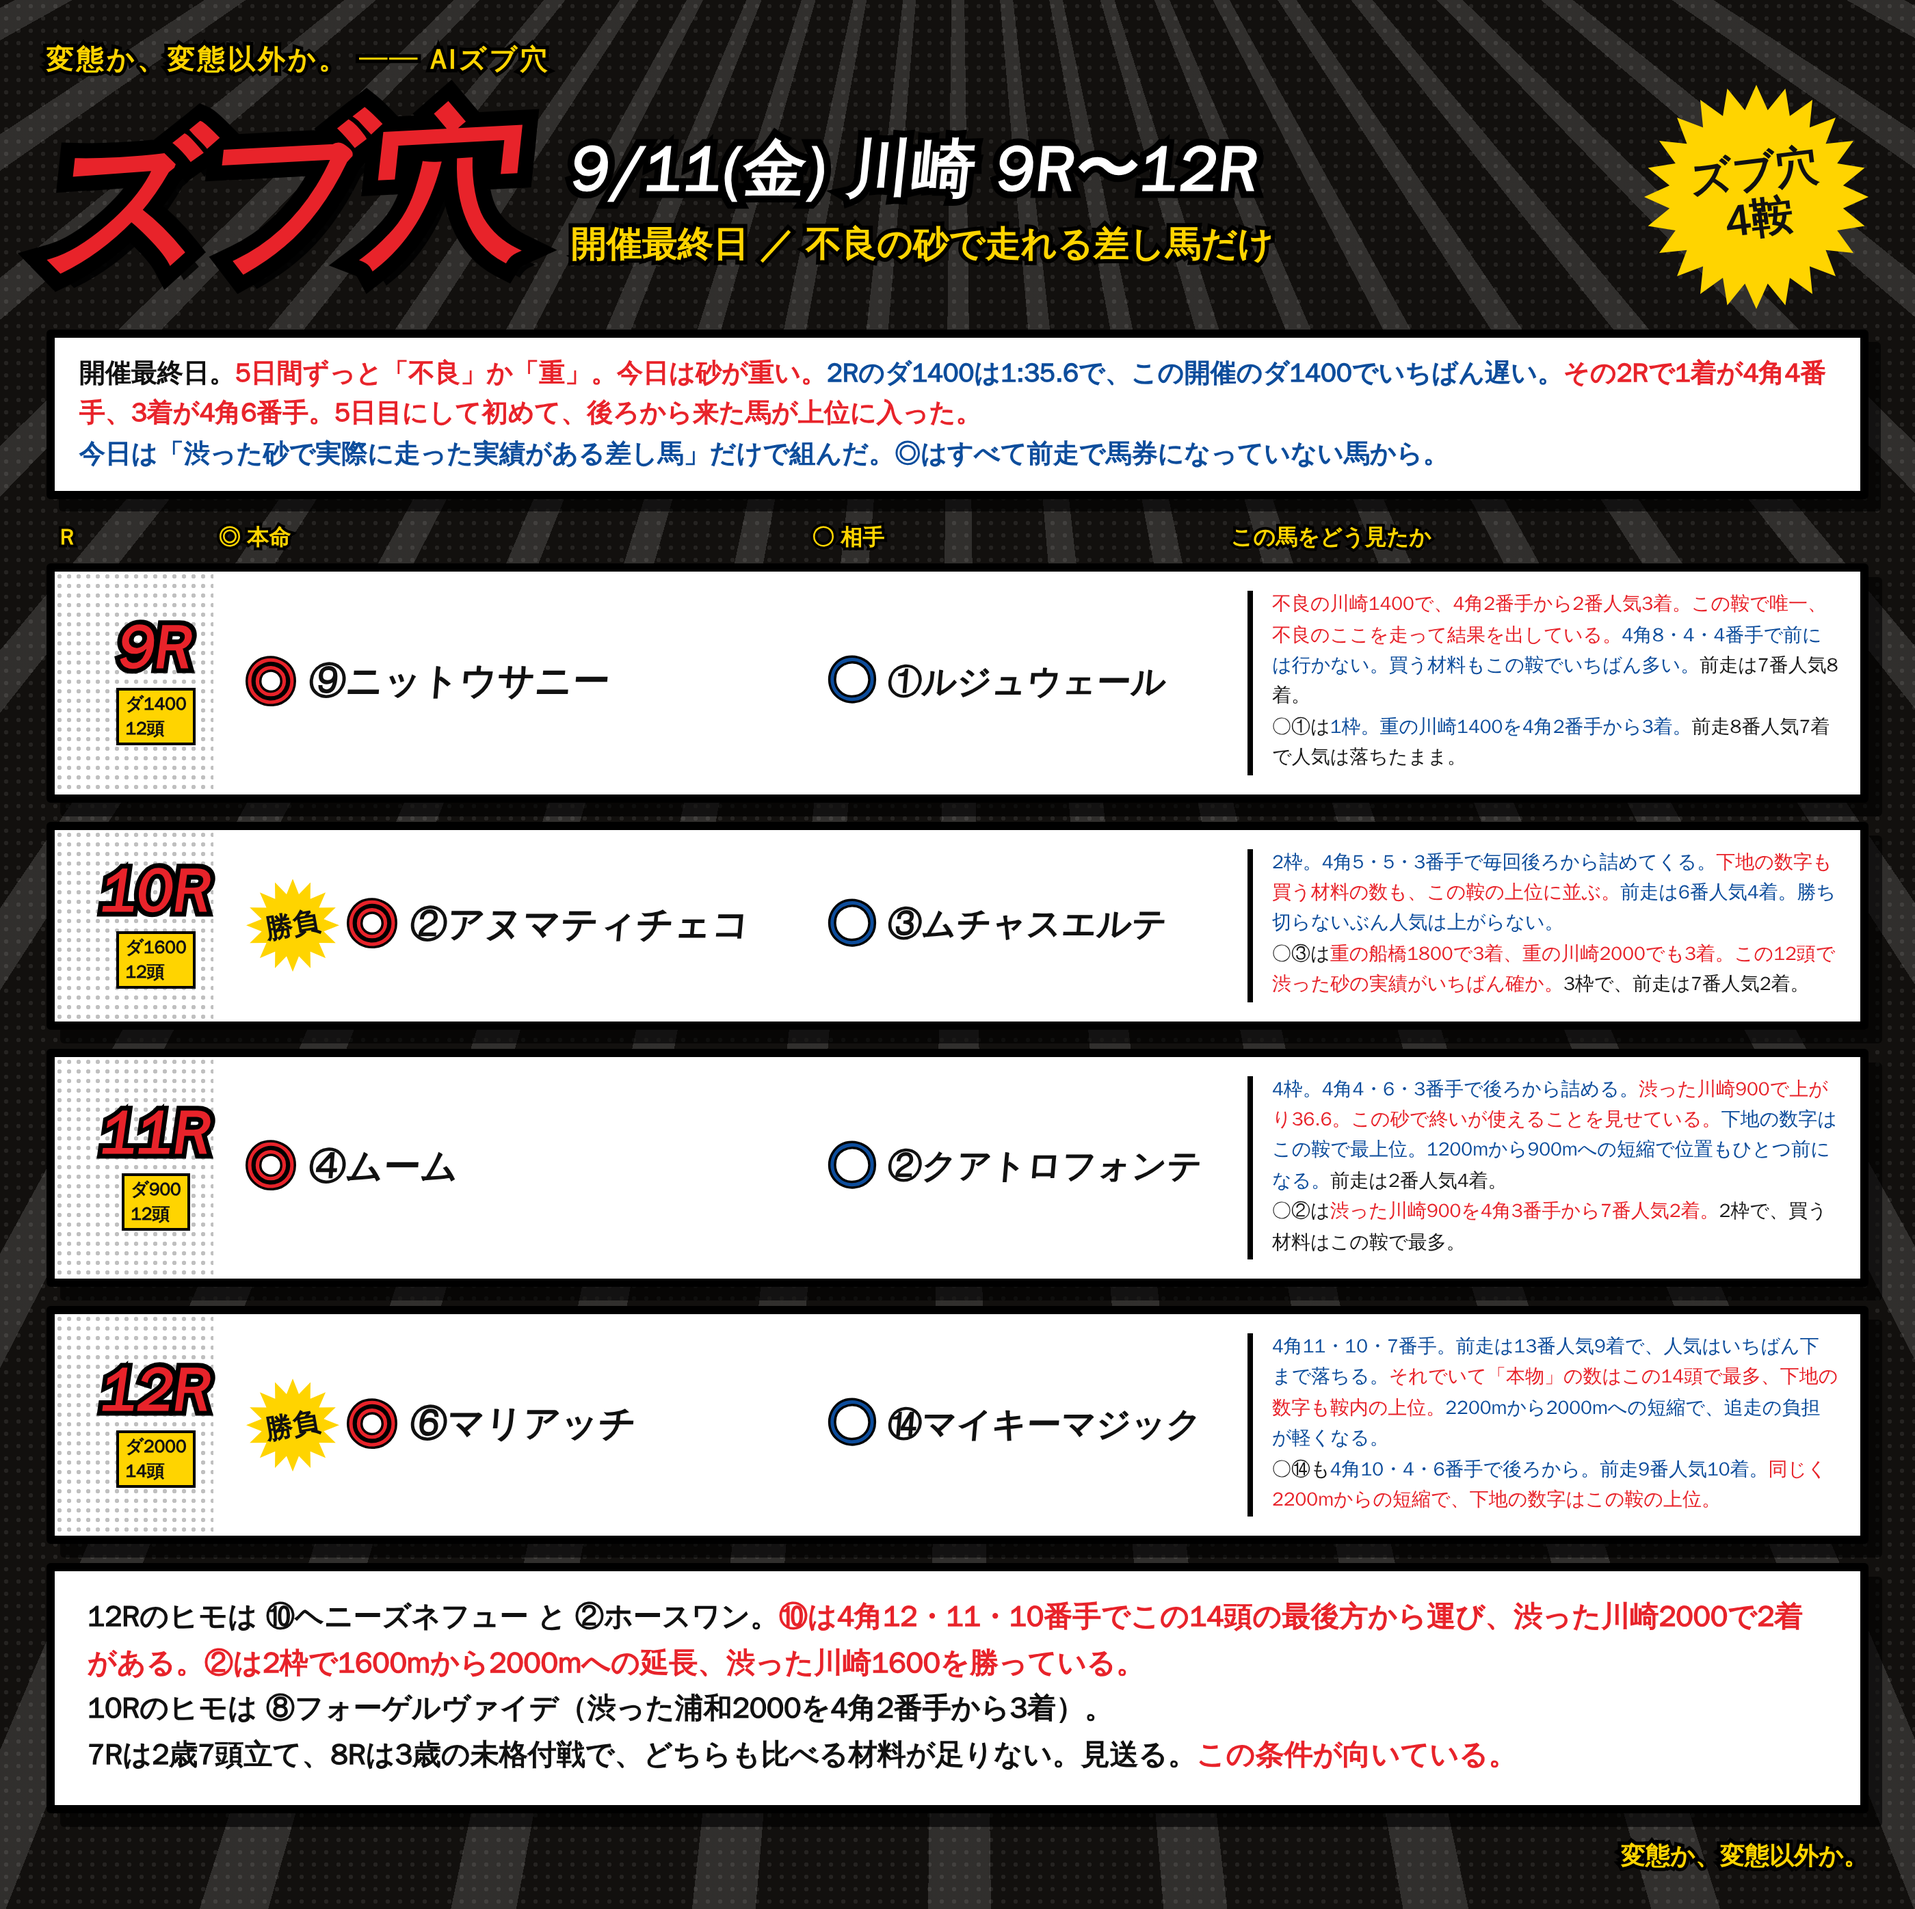
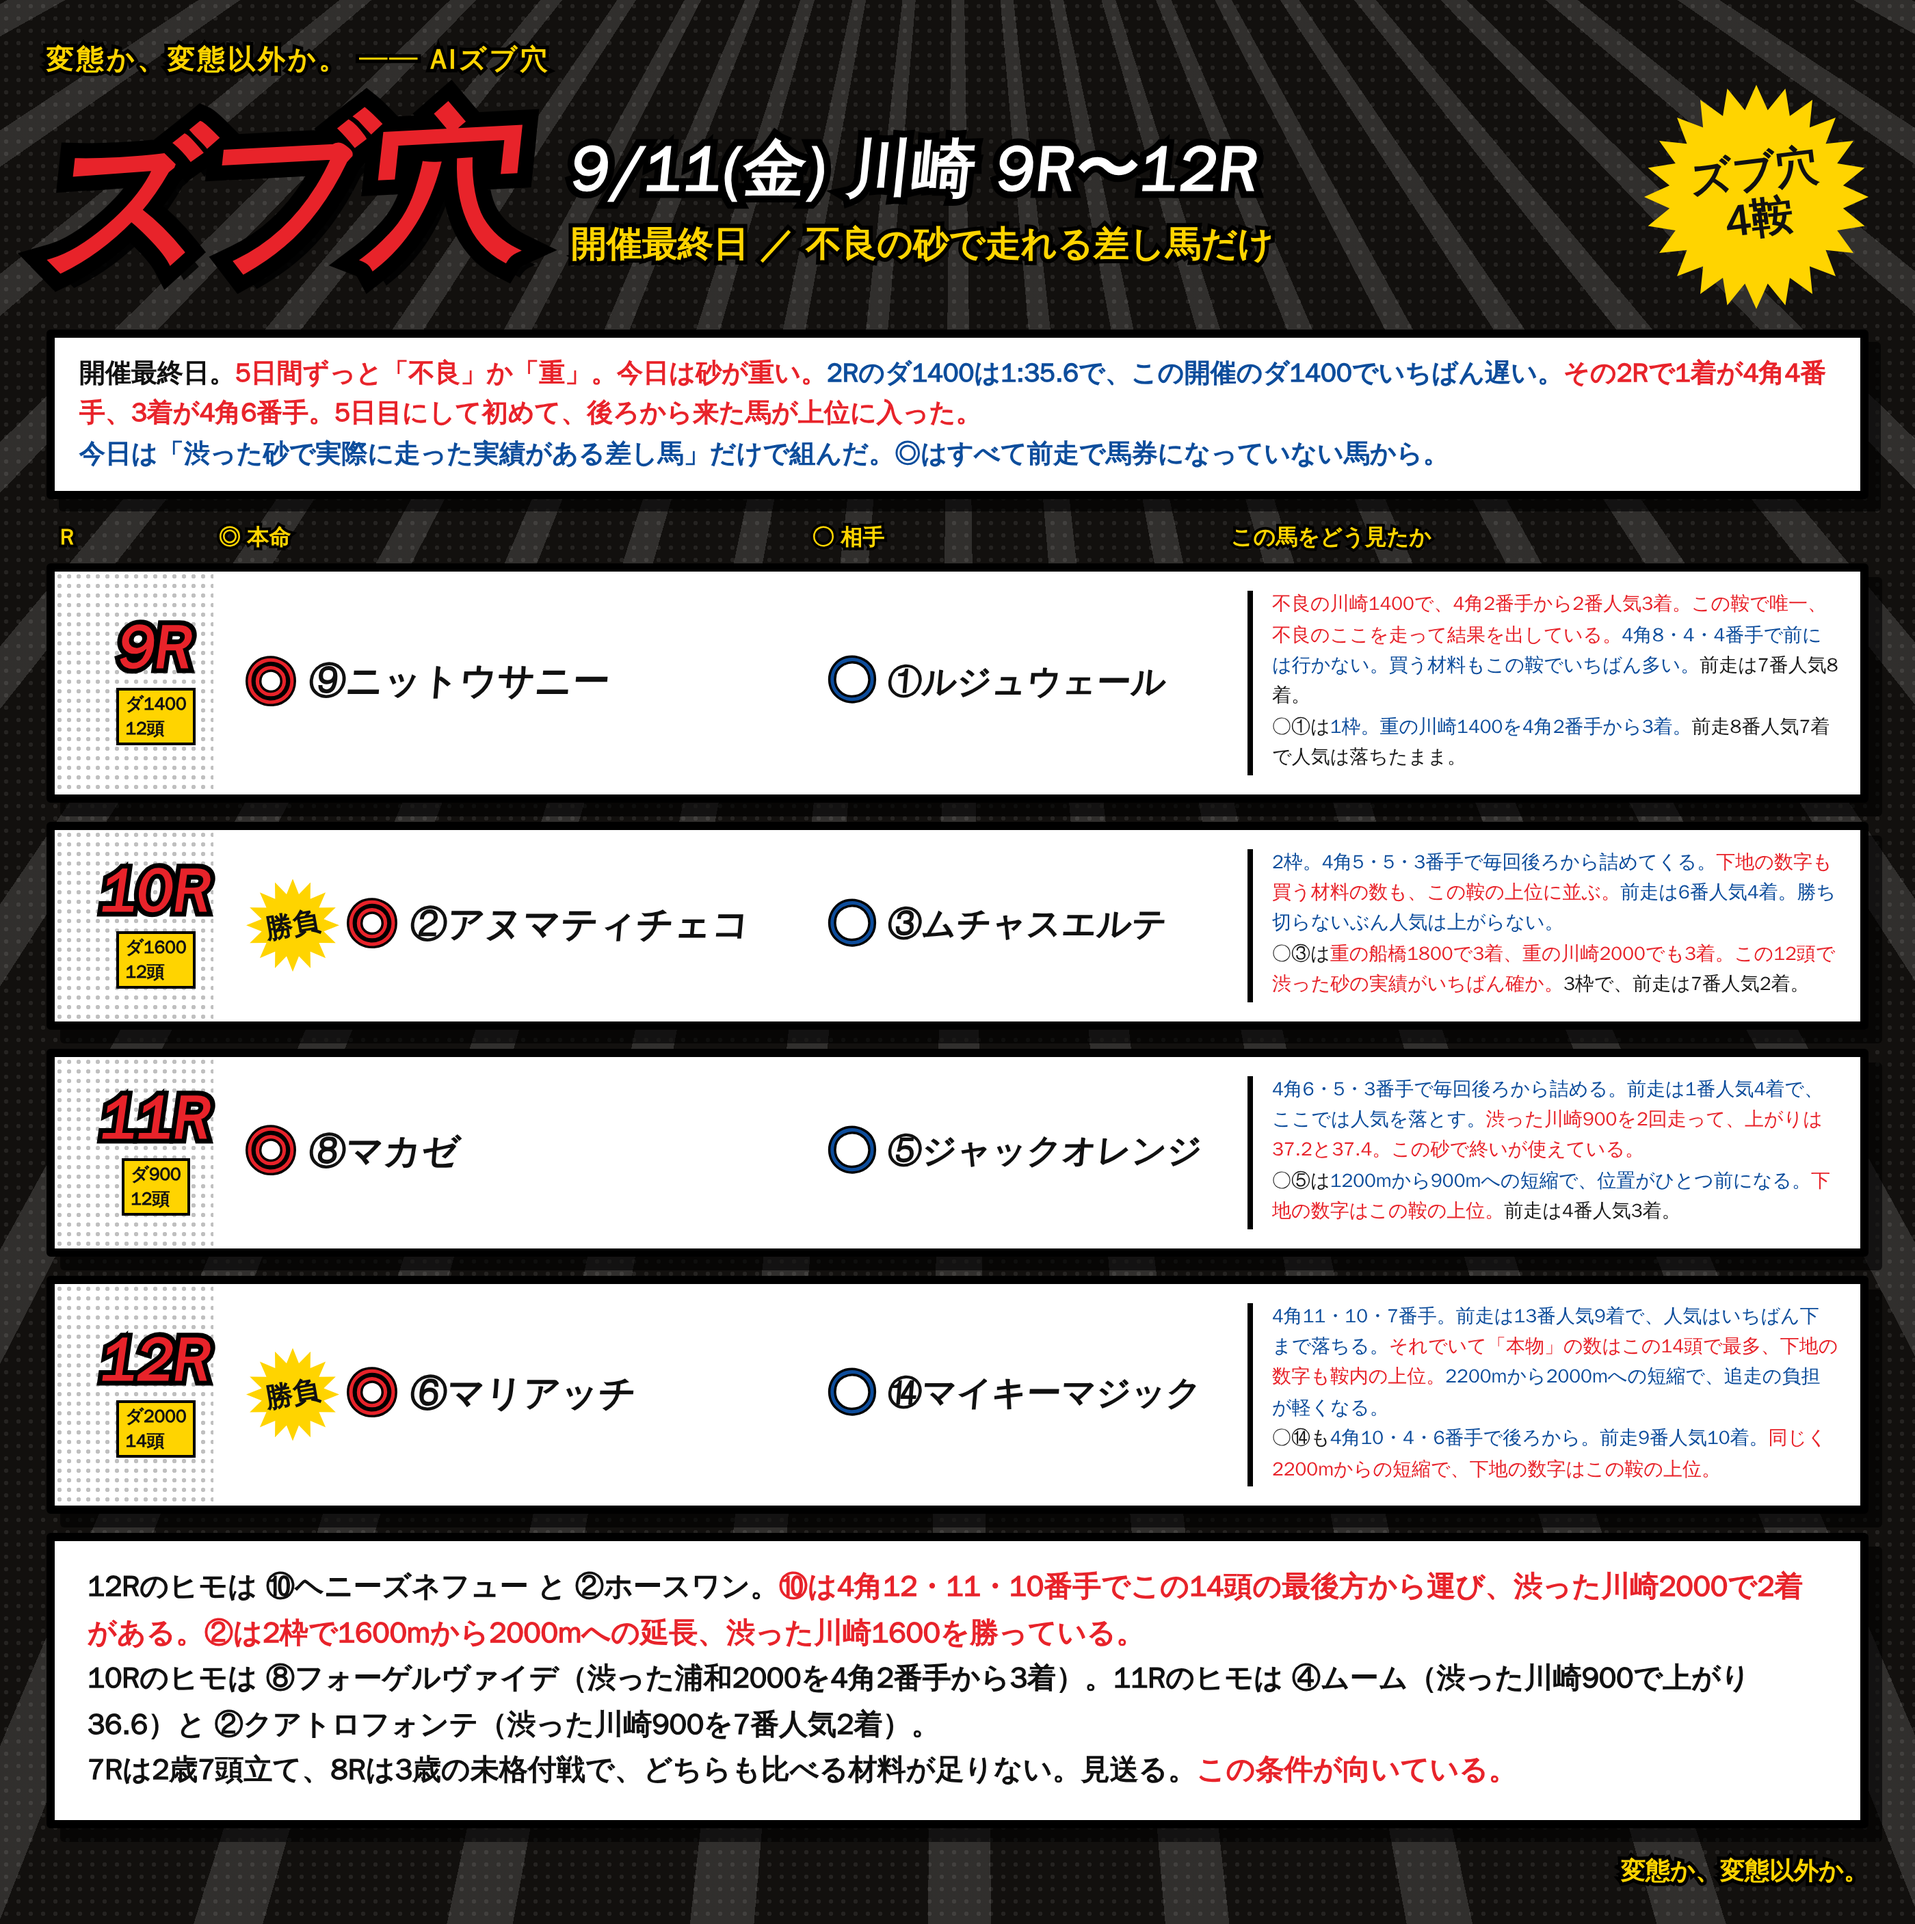
9/11 川崎: 11Rの印を差し替え
Claude-Session: https://claude.ai/code/session_01RoHscZkr96FNaxQWvUqgEw

diff --git a/notes/live/2026-09-11/kw_9_12.html b/notes/live/2026-09-11/kw_9_12.html
@@ -83,8 +83,8 @@
 <div class="cols"><div class="cR">R</div><div class="cH">◎ 本命</div><div class="cA">○ 相手</div><div class="cM">この馬をどう見たか</div></div>
 <div class="row"><div class="corner"></div><div class="rN"><div class="n">9R</div><div class="d">ダ1400<br>12頭</div></div><div class="hm"><span class="mk">◎</span><span class="nm">⑨ニットウサニー</span></div><div class="at"><span class="mk2">○</span><span class="nm2">①ルジュウェール</span></div><div class="memo"><b class="r">不良の川崎1400で、4角2番手から2番人気3着。この鞍で唯一、不良のここを走って結果を出している。</b><b>4角8・4・4番手で前には行かない。買う材料もこの鞍でいちばん多い。</b>前走は7番人気8着。<br>○①は<b>1枠。重の川崎1400を4角2番手から3着。</b>前走8番人気7着で人気は落ちたまま。</div></div>
 <div class="row"><div class="corner"></div><div class="rN"><div class="n">10R</div><div class="d">ダ1600<br>12頭</div></div><div class="hm"><div class="sb"><span>勝負</span></div><span class="mk">◎</span><span class="nm">②アヌマティチェコ</span></div><div class="at"><span class="mk2">○</span><span class="nm2">③ムチャスエルテ</span></div><div class="memo"><b>2枠。4角5・5・3番手で毎回後ろから詰めてくる。</b><b class="r">下地の数字も買う材料の数も、この鞍の上位に並ぶ。</b><b>前走は6番人気4着。勝ち切らないぶん人気は上がらない。</b><br>○③は<b class="r">重の船橋1800で3着、重の川崎2000でも3着。この12頭で渋った砂の実績がいちばん確か。</b>3枠で、前走は7番人気2着。</div></div>
-<div class="row"><div class="corner"></div><div class="rN"><div class="n">11R</div><div class="d">ダ900<br>12頭</div></div><div class="hm"><span class="mk">◎</span><span class="nm">④ムーム</span></div><div class="at"><span class="mk2">○</span><span class="nm2">②クアトロフォンテ</span></div><div class="memo"><b>4枠。4角4・6・3番手で後ろから詰める。</b><b class="r">渋った川崎900で上がり36.6。この砂で終いが使えることを見せている。</b><b>下地の数字はこの鞍で最上位。1200mから900mへの短縮で位置もひとつ前になる。</b>前走は2番人気4着。<br>○②は<b class="r">渋った川崎900を4角3番手から7番人気2着。</b>2枠で、買う材料はこの鞍で最多。</div></div>
+<div class="row"><div class="corner"></div><div class="rN"><div class="n">11R</div><div class="d">ダ900<br>12頭</div></div><div class="hm"><span class="mk">◎</span><span class="nm">⑧マカゼ</span></div><div class="at"><span class="mk2">○</span><span class="nm2">⑤ジャックオレンジ</span></div><div class="memo"><b>4角6・5・3番手で毎回後ろから詰める。前走は1番人気4着で、ここでは人気を落とす。</b><b class="r">渋った川崎900を2回走って、上がりは37.2と37.4。この砂で終いが使えている。</b><br>○⑤は<b>1200mから900mへの短縮で、位置がひとつ前になる。</b><b class="r">下地の数字はこの鞍の上位。</b>前走は4番人気3着。</div></div>
 <div class="row"><div class="corner"></div><div class="rN"><div class="n">12R</div><div class="d">ダ2000<br>14頭</div></div><div class="hm"><div class="sb"><span>勝負</span></div><span class="mk">◎</span><span class="nm">⑥マリアッチ</span></div><div class="at"><span class="mk2">○</span><span class="nm2">⑭マイキーマジック</span></div><div class="memo"><b>4角11・10・7番手。前走は13番人気9着で、人気はいちばん下まで落ちる。</b><b class="r">それでいて「本物」の数はこの14頭で最多、下地の数字も鞍内の上位。</b><b>2200mから2000mへの短縮で、追走の負担が軽くなる。</b><br>○⑭も<b>4角10・4・6番手で後ろから。前走9番人気10着。</b><b class="r">同じく2200mからの短縮で、下地の数字はこの鞍の上位。</b></div></div>
-<div class="foot"><b>12Rのヒモは ⑩ヘニーズネフュー と ②ホースワン。</b><b class="r">⑩は4角12・11・10番手でこの14頭の最後方から運び、渋った川崎2000で2着がある。②は2枠で1600mから2000mへの延長、渋った川崎1600を勝っている。</b><br><b>10Rのヒモは ⑧フォーゲルヴァイデ（渋った浦和2000を4角2番手から3着）。</b><br><b>7Rは2歳7頭立て、8Rは3歳の未格付戦で、どちらも比べる材料が足りない。見送る。</b><b class="r">この条件が向いている。</b></div>
+<div class="foot"><b>12Rのヒモは ⑩ヘニーズネフュー と ②ホースワン。</b><b class="r">⑩は4角12・11・10番手でこの14頭の最後方から運び、渋った川崎2000で2着がある。②は2枠で1600mから2000mへの延長、渋った川崎1600を勝っている。</b><br><b>10Rのヒモは ⑧フォーゲルヴァイデ（渋った浦和2000を4角2番手から3着）。11Rのヒモは ④ムーム（渋った川崎900で上がり36.6）と ②クアトロフォンテ（渋った川崎900を7番人気2着）。</b><br><b>7Rは2歳7頭立て、8Rは3歳の未格付戦で、どちらも比べる材料が足りない。見送る。</b><b class="r">この条件が向いている。</b></div>
 <div class="sig">変態か、変態以外か。</div>
 </div></div></body></html>

diff --git a/notes/live/2026-09-11/README.md b/notes/live/2026-09-11/README.md
@@ -21,7 +21,7 @@
 |---|---|---|---|---|---|
 | 9R | ダ1400 12頭 | **⑨ニットウサニー** | 8・4・4 | **不良の川崎1400で2番人気3着**（4角2番手） | ①ルジュウェール |
 | **10R** | ダ1600 12頭 | **②アヌマティチェコ** | 5・5・3 | 重の川崎2000で6着・稍重で5着 | ③ムチャスエルテ |
-| 11R | ダ900 12頭 | **④ムーム** | 4・6・3 | **渋った川崎900で上がり36.6** | ②クアトロフォンテ |
+| 11R | ダ900 12頭 | **⑧マカゼ** | 6・5・3 | **渋った川崎900を2回走って上がり37.2・37.4** | ⑤ジャックオレンジ |
 | **12R** | ダ2000 14頭 | **⑥マリアッチ** | 11・10・7 | 道悪4戦0勝圏（うち3戦は船橋2200/1800） | ⑭マイキーマジック |
 
 ### 12Rは切りかけた馬を戻した
@@ -38,11 +38,13 @@
 
 **10Rのヒモ**：⑧フォーゲルヴァイデ（渋った浦和2000を4角2番手から3着）
 
+**11Rのヒモ**：④ムーム（渋った川崎900で上がり36.6）、②クアトロフォンテ（渋った川崎900を4角3番手から7番人気2着）
+
 ### 道悪実績で落とした馬
 
 - **12R ①ノイヤーヘルト** … 不良の浦和2000で12番人気10着。この砂で走った形跡がない
 - **9R ④クリップクロップ** … 道悪3戦0勝圏で、不良の川崎1400では12着
-- **11R ⑥クオレス** … 道悪2戦とも二桁着順（稍重の川崎900で11番人気9着）
+- **11R ⑥クオレス** … 道悪2戦とも二桁着順（稍重の川崎900で11番人気9着）。当初◎にしていたが落とした
 - **10R ⑤マイネルボス** … 南関の道悪実績なし（JRAの稍重で上がりは速いが着順は5着・7着）
 
 ## 今日の馬場（1R〜4R時点・表示は「不良」）
